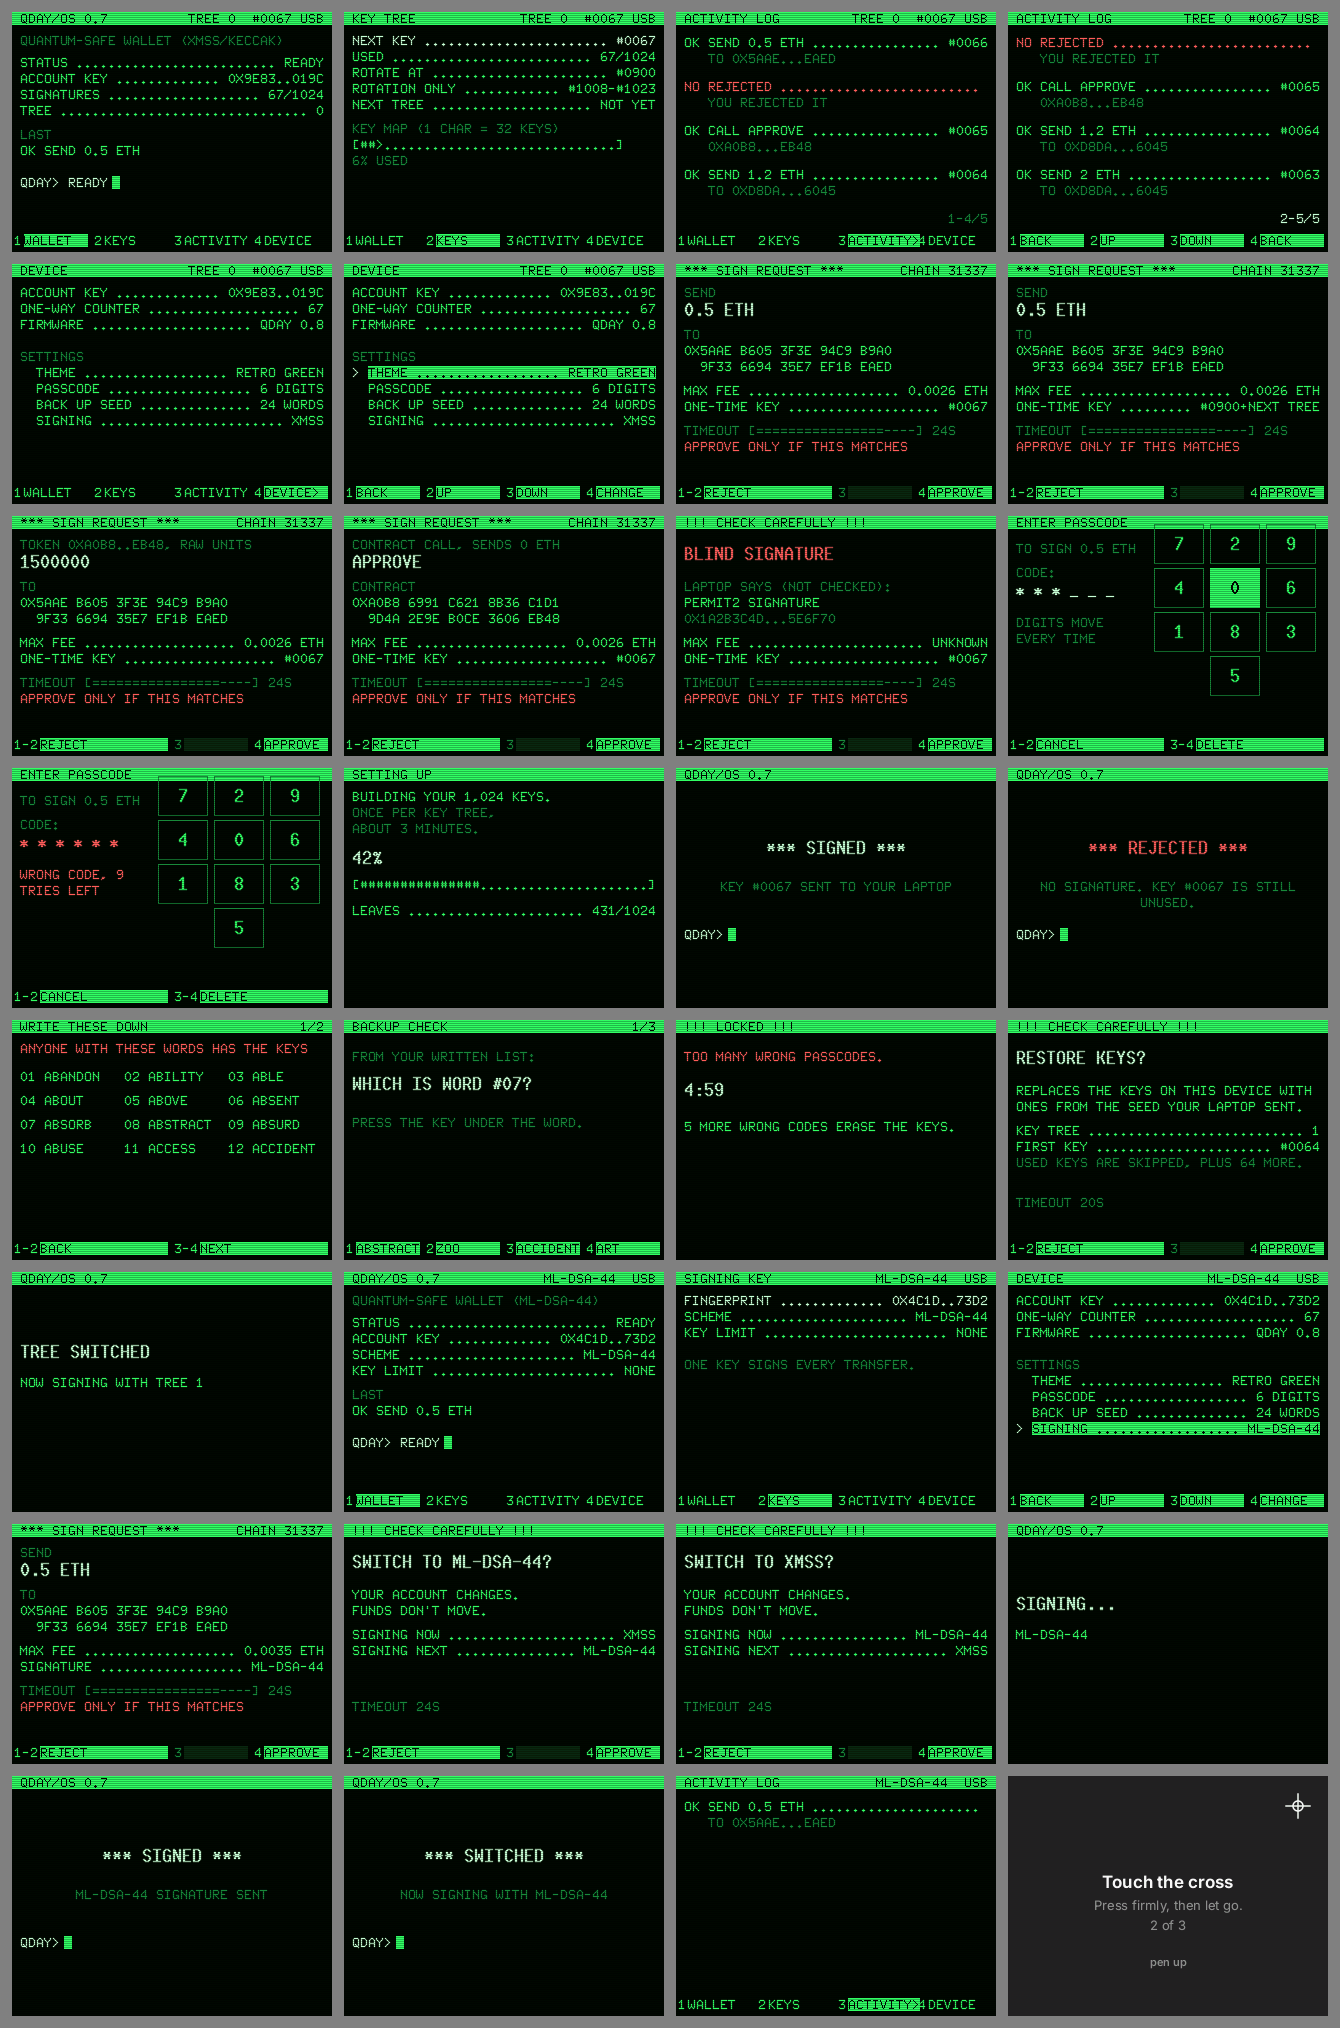
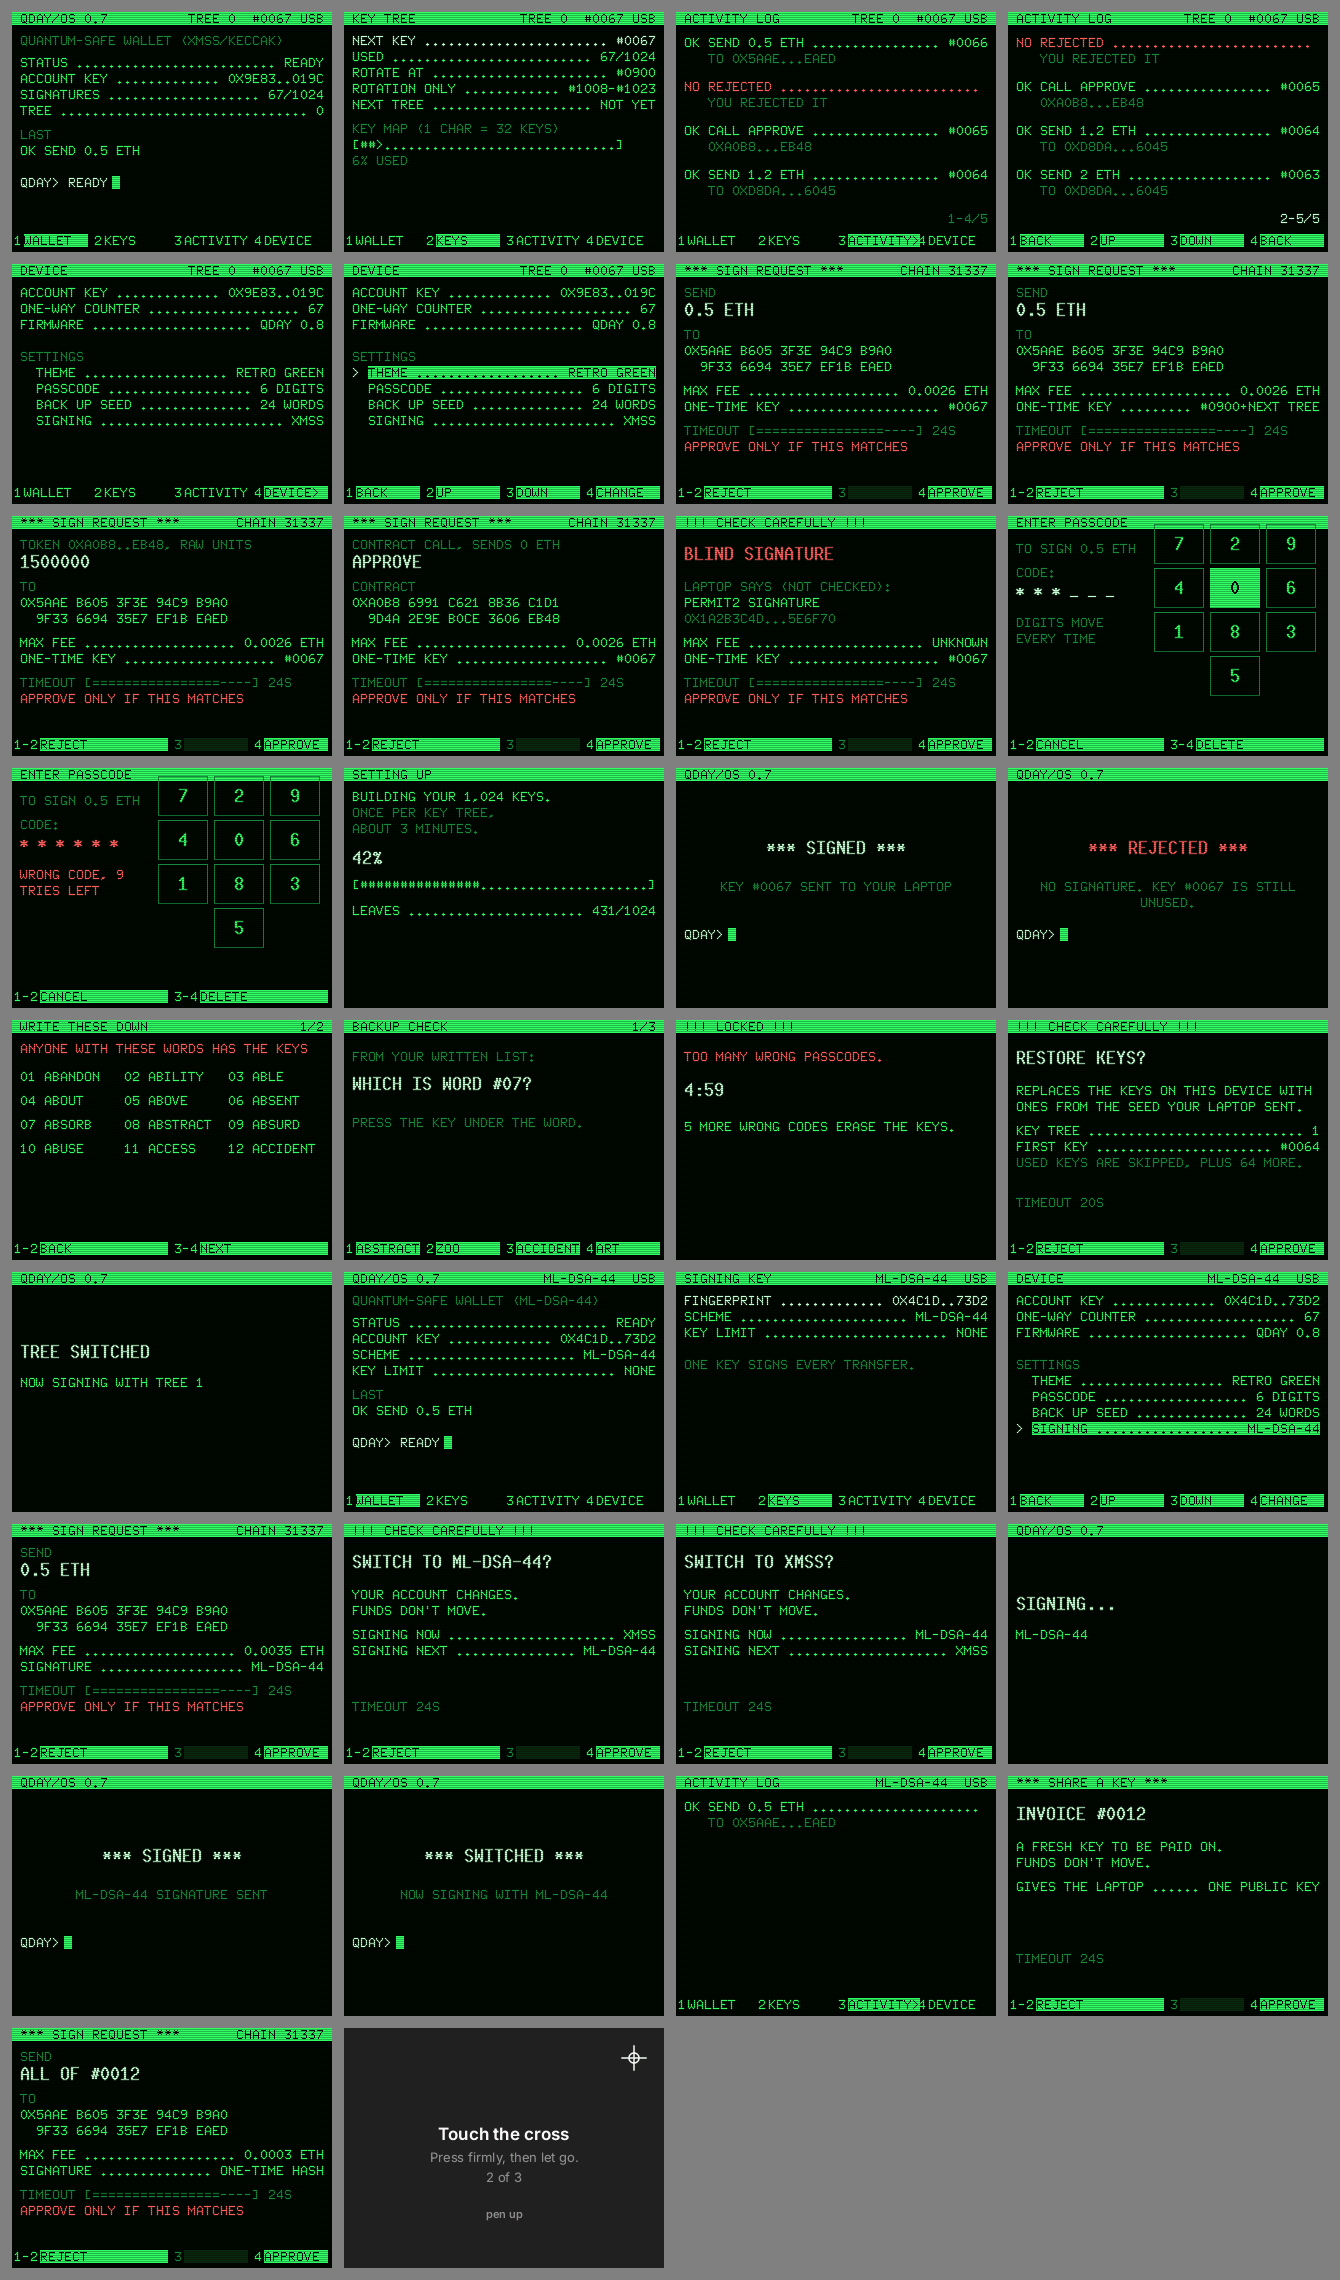
Pin the pool's length, gas and pool checks, and record the live results
Three deliberate breaks got past the first tests: a signature with extra bytes,
a payee burning all the gas, and a signature made for another pool.

diff --git a/docs/devnet.md b/docs/devnet.md
@@ -71,3 +71,24 @@ mempool note ahead of the real error.
 
 ethrex hegota-testnet: chain id 8141, RPC `https://rpc1.privacy.ethrex.xyz`, explorer
 `https://dora.privacy.ethrex.xyz`. Enforces the public `MAX_VERIFY_GAS = 100,000`.
+
+## Hash pool
+
+`scripts/hashpool-demo.sh`, 2026-11-06, on the same chain, as plain transactions with the funding key
+as the relayer. Both the laptop key and the device code were tested, the device code on simulated
+flash. No real board was involved.
+
+| Transaction | Total gas |
+|---|---|
+| Pay a new note | 133,589-133,601 |
+| Top up a note | 35,681 |
+| Spend a note | 166,808-173,111 |
+
+A one-time key signs only once. The device records what each key signed before signing, and the pool
+always finishes once a valid signature arrives, so a key never needs a second signature. The device
+refused a second, different spend with `invoice-used`, and the pool refused a replay and a payment to a
+spent key. An invoice works in both signing modes and leaves the one-way counter alone.
+
+Limits: the spend log holds 480 spends. The device shows the recipient and fee, but not the pool
+address or the note's balance, which it can't check. A wrong pool can't take funds, but it would use up
+the invoice's one signature.
